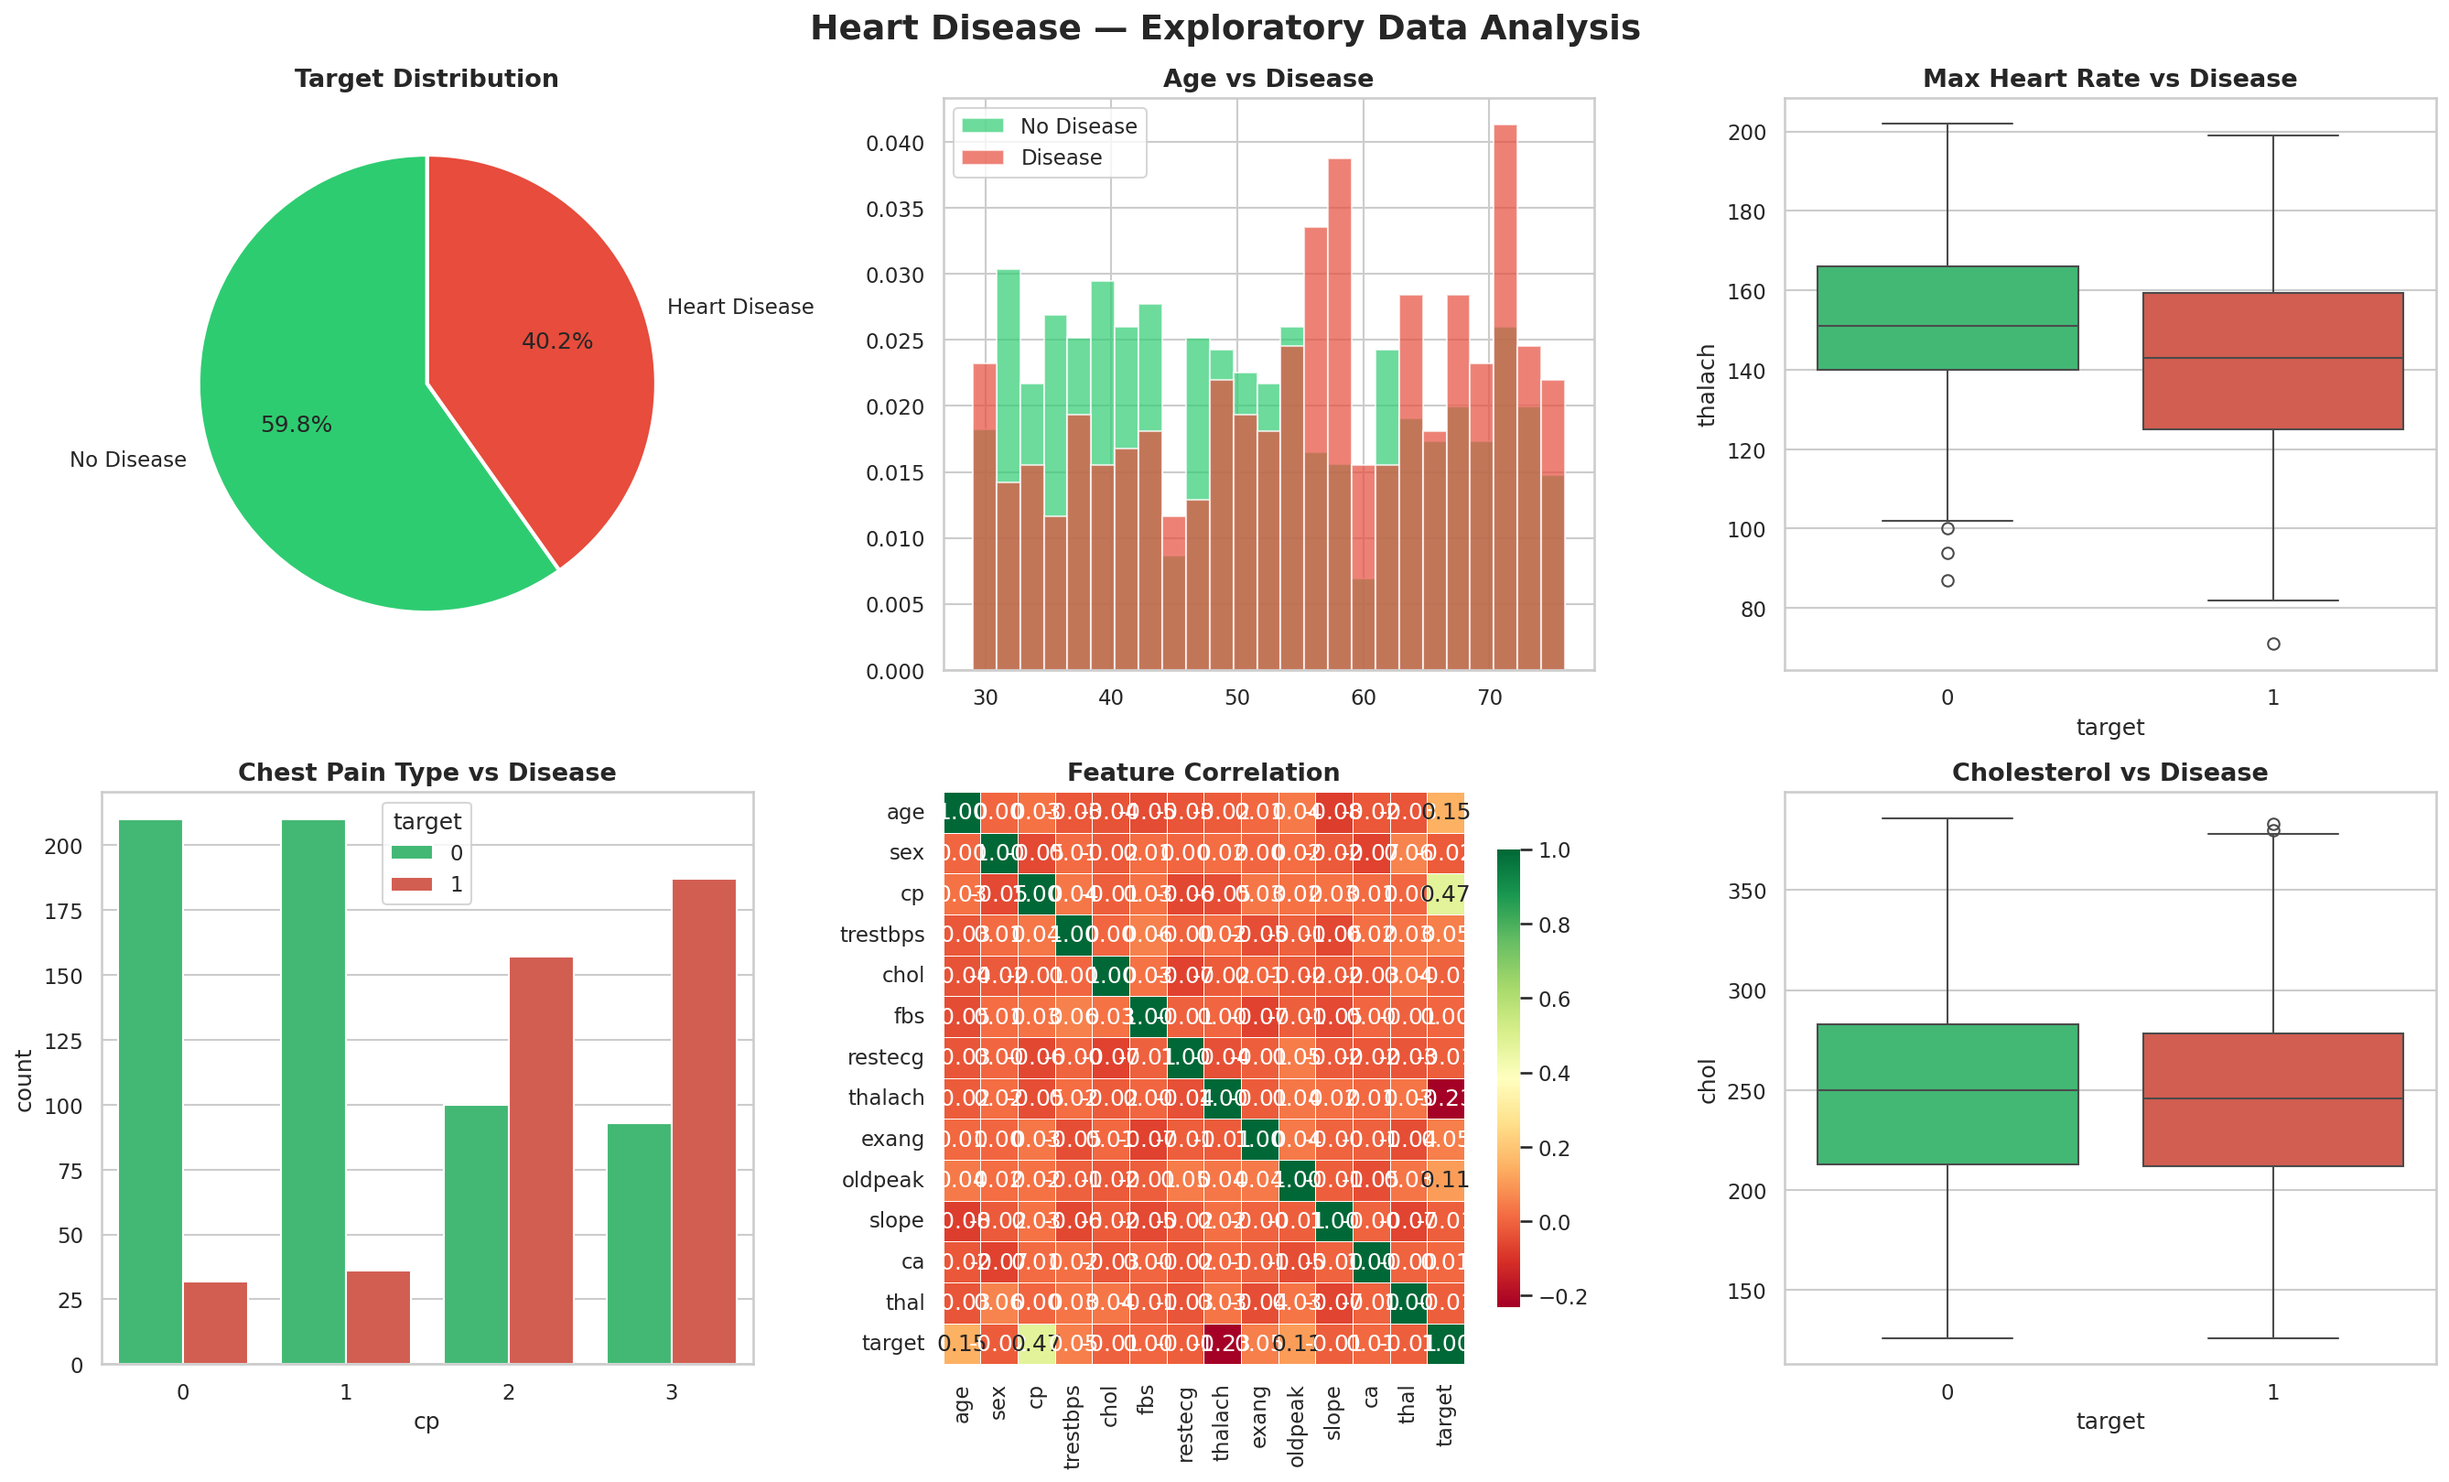
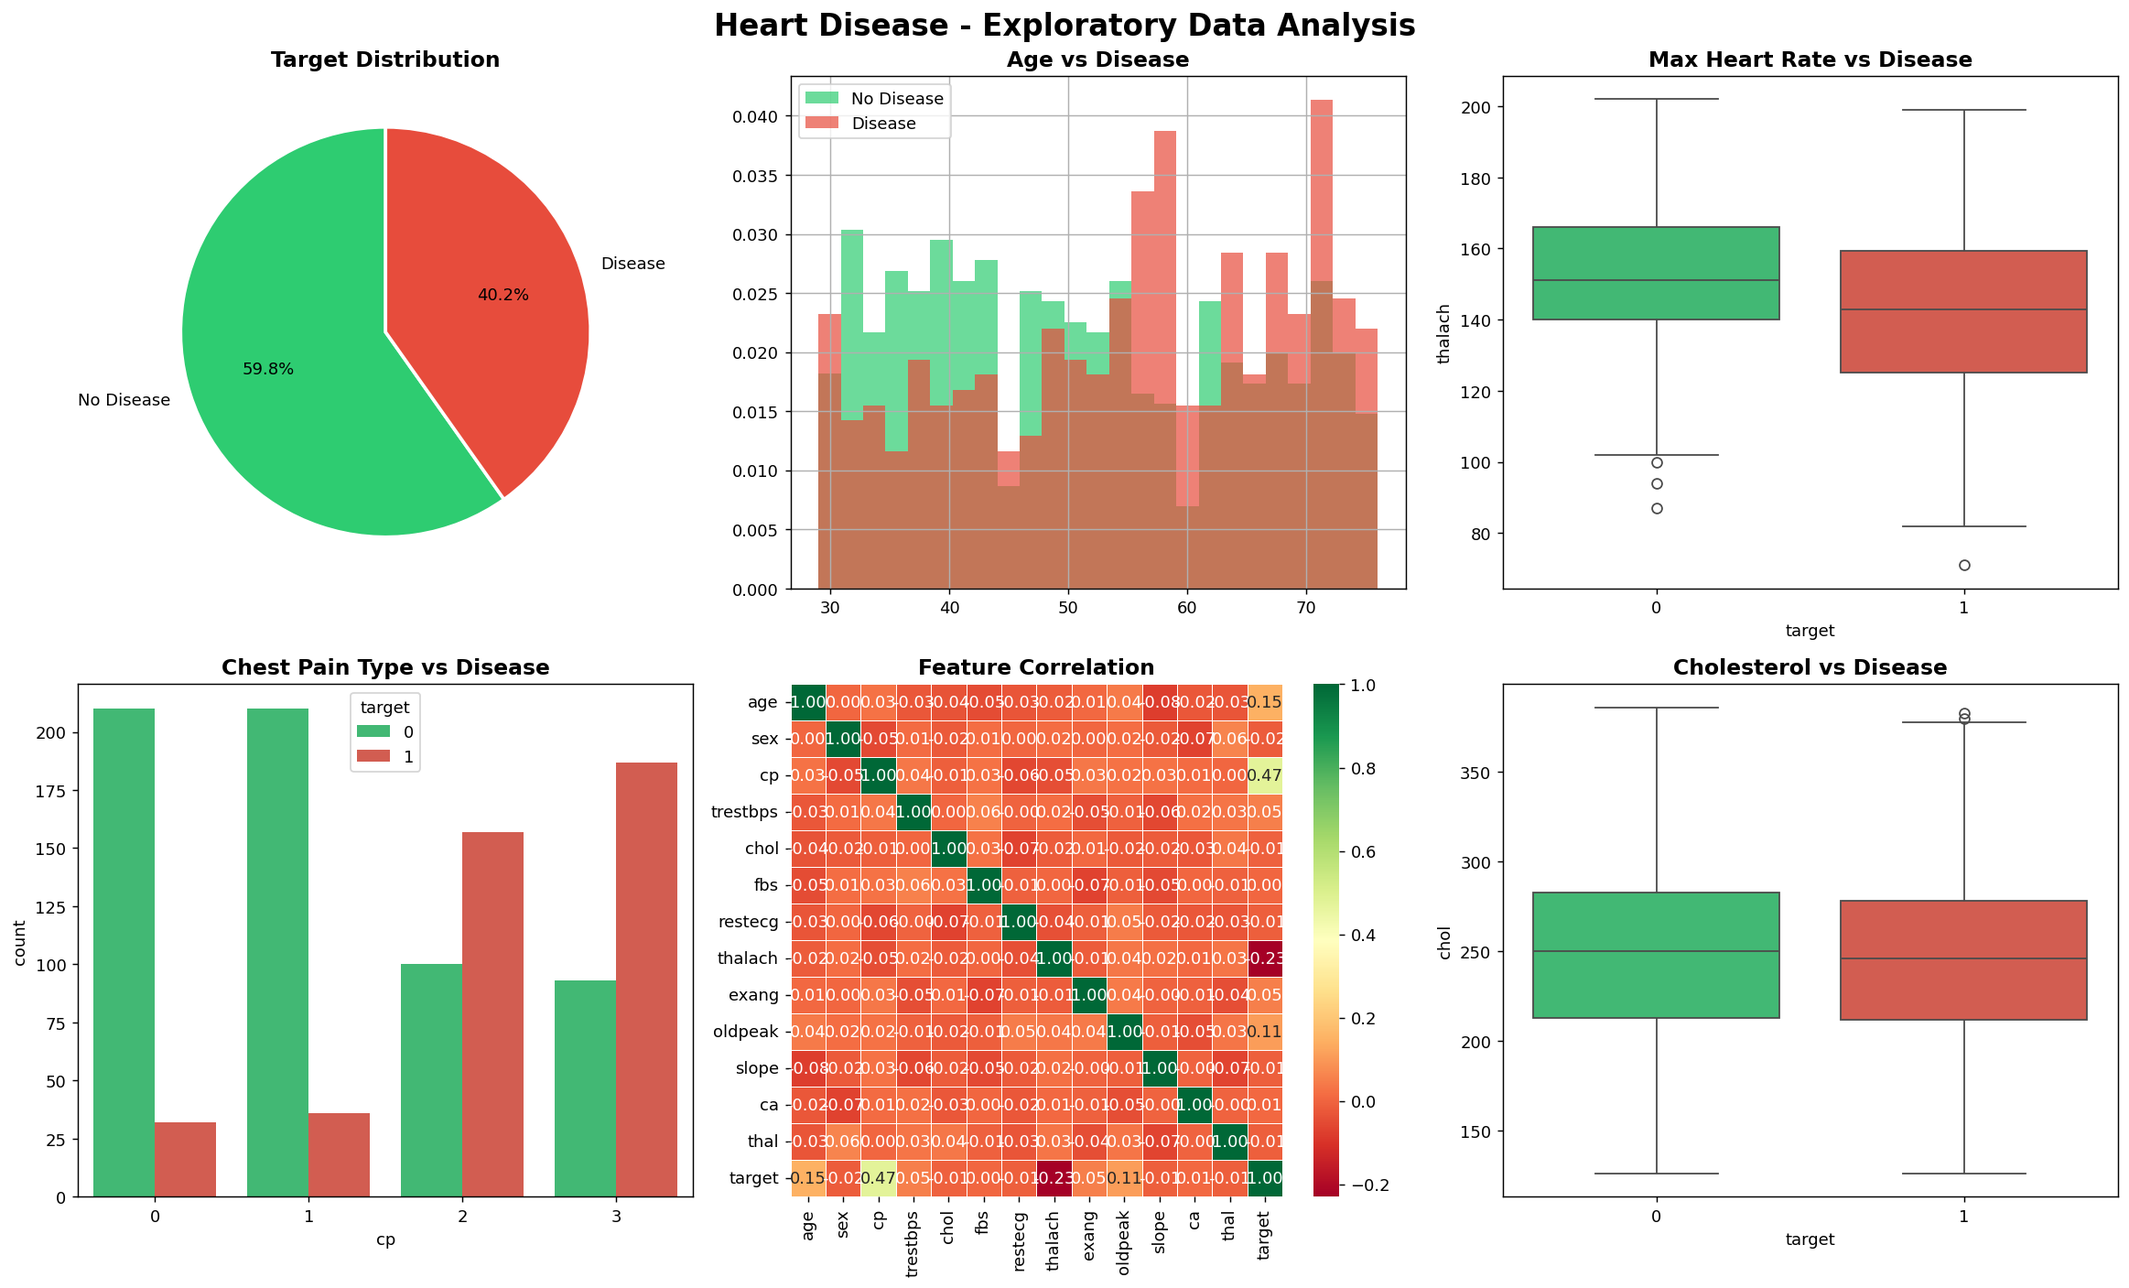
Fix: remove heart emoji, retrain models with sklearn 1.8.0, update requirements

diff --git a/app.py b/app.py
@@ -17,7 +17,7 @@ warnings.filterwarnings("ignore")
 # ── Page Config ───────────────────────────────────────────────────────────────
 st.set_page_config(
     page_title="Heart Disease Prediction",
-    page_icon="❤",
+    page_icon="🩺",
     layout="wide",
     initial_sidebar_state="expanded",
 )
@@ -96,7 +96,7 @@ def predict(inputs, model, scaler, feature_names):
 
 # ── Sidebar ───────────────────────────────────────────────────────────────────
 with st.sidebar:
-    st.markdown("## ❤ Disease Prediction")
+    st.markdown("## Disease Prediction")
     st.markdown("**CodeAlpha ML Internship**")
     st.markdown("**Intern:** Prajwal Mesare")
     st.markdown("**Model:** Gradient Boosting")
@@ -114,7 +114,7 @@ with st.sidebar:
 # ── Header ────────────────────────────────────────────────────────────────────
 st.markdown("""
 <div class="header">
-    <h1>❤ Heart Disease Prediction</h1>
+    <h1>Disease Prediction from Medical Data</h1>
     <p>Kaggle — UCI Heart Disease Dataset | Clinical Risk Assessment | CodeAlpha ML Internship</p>
 </div>
 """, unsafe_allow_html=True)
